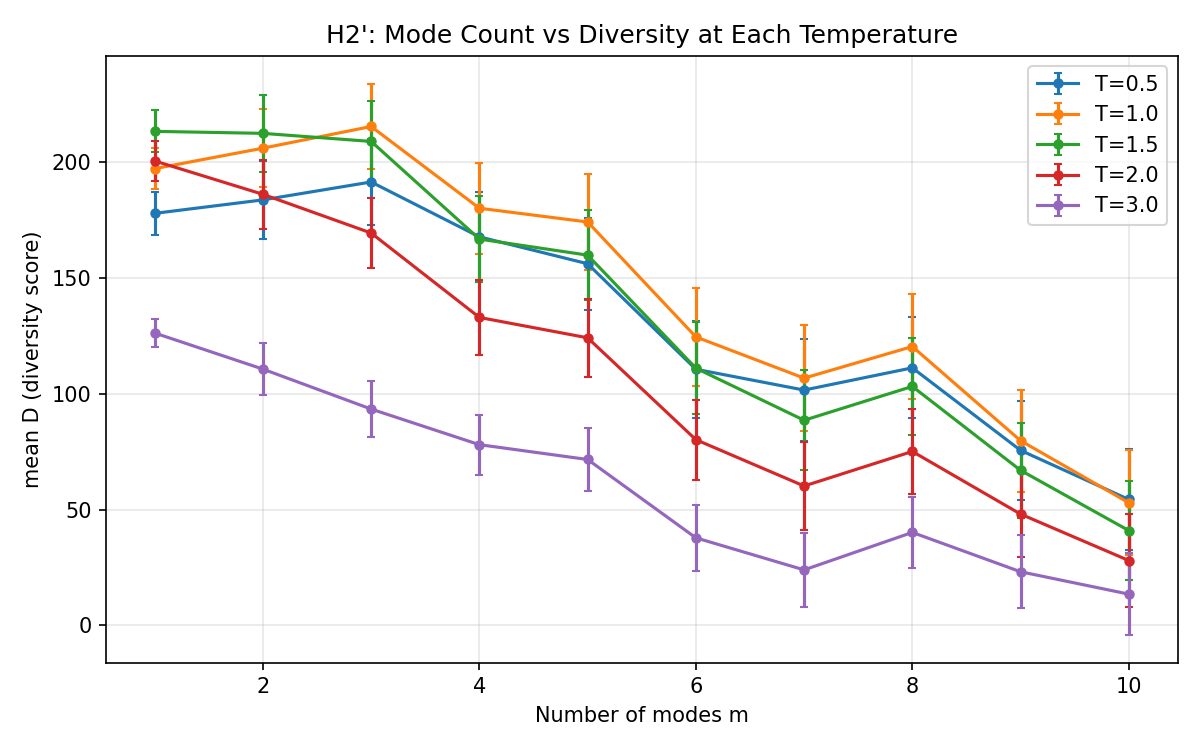
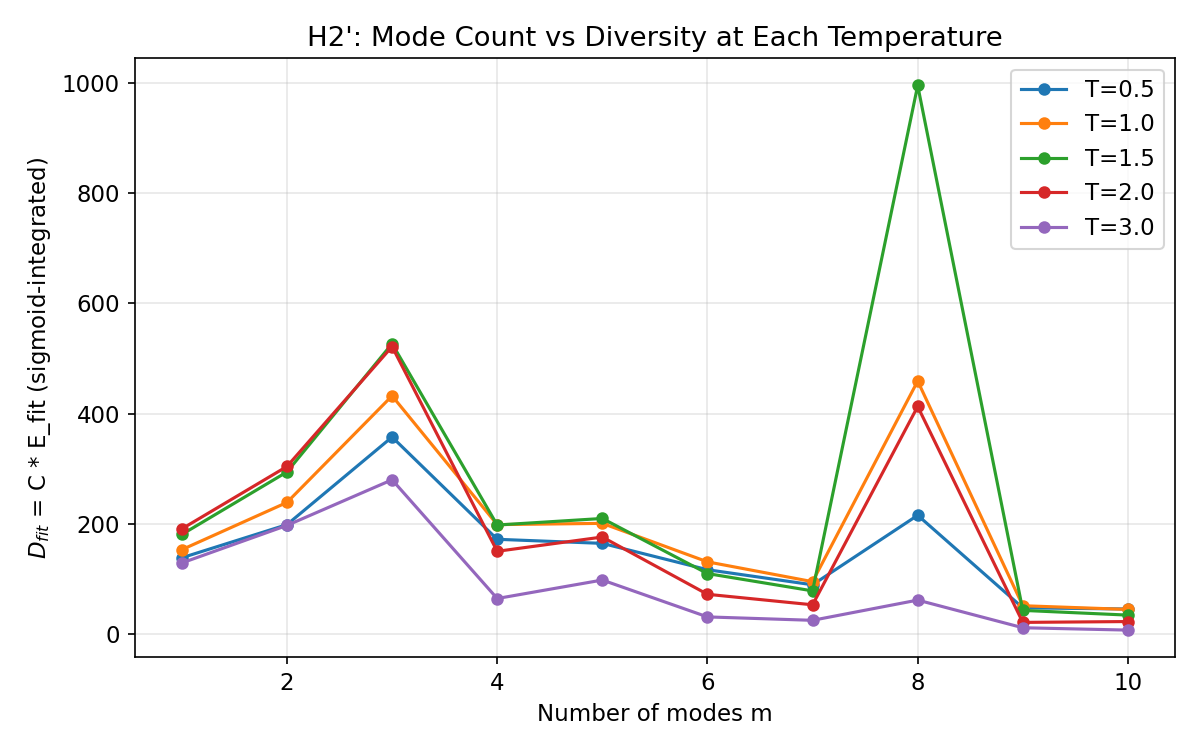
Add permutation a_k curve comparison plot and fix D metric to use sigmoid fit
- New: plot_permutation_curves.py shows per-permutation a_k curves at T=1.0
  vs T=2.0 side-by-side. Visibly tighter bundle at T=2.0.
- analyze_mode_count_temperature.py: H2 now uses sigmoid-fitted D_fit
  (C * E_fit via fit_mean_curves) instead of truncated D. Reveals that
  sigmoid fits are unstable at some mode counts (k0 hits bounds), but
  the overall trend and hypothesis test results are unchanged.

diff --git a/scripts/analyze_mode_count_temperature.py b/scripts/analyze_mode_count_temperature.py
@@ -26,6 +26,7 @@ Usage:
 
 import argparse
 import json
+import sys
 from collections import defaultdict
 from pathlib import Path
 from typing import Any
@@ -33,6 +34,10 @@ from typing import Any
 import matplotlib.pyplot as plt
 import numpy as np
 from scipy import stats
+
+# Import sigmoid fitting from the existing fit_ak_curves script
+sys.path.insert(0, str(Path(__file__).resolve().parent))
+from fit_ak_curves import fit_mean_curves
 
 DEFAULT_INPUT_DIR = (
     Path(__file__).resolve().parent.parent / "results" / "mode_count_temperature"
@@ -53,8 +58,44 @@ def load_all_results(input_dir: Path) -> dict[float, dict[str, Any]]:
     return results
 
 
-def group_D_by_m(data: dict[str, Any]) -> dict[int, list[float]]:
-    """Extract D values grouped by mode count m."""
+def compute_D_fit_per_m(data: dict[str, Any], n_bootstrap: int = 200) -> dict[int, float]:
+    """Compute D_fit = C_mean * E_fit per mode count m using fit_mean_curves.
+
+    Delegates to fit_mean_curves from fit_ak_curves.py, which averages a_k
+    curves across draws per m, fits one sigmoid, and integrates 1..inf.
+    """
+    # fit_mean_curves expects each run to have "n_responses"; patch if missing
+    n_responses = data.get("n_responses")
+    if n_responses is not None:
+        for run in data["runs"]:
+            if "n_responses" not in run:
+                run["n_responses"] = n_responses
+
+    fit_results = fit_mean_curves(data, n_bootstrap=n_bootstrap)
+
+    # Also compute mean C per m
+    grouped: dict[int, list[float]] = defaultdict(list)
+    for run in data["runs"]:
+        grouped[int(run["m"])].append(float(run["coherence_C"]))
+
+    d_fit_by_m: dict[int, float] = {}
+    for fit in fit_results:
+        m = fit["m"]
+        if not fit.get("fit_success"):
+            print(f"    WARNING: sigmoid fit failed for m={m}")
+            continue
+        mean_C = float(np.mean(grouped[m]))
+        d_fit_by_m[m] = mean_C * fit["E_fit"]
+
+    return d_fit_by_m
+
+
+def group_D_raw_by_m(data: dict[str, Any]) -> dict[int, list[float]]:
+    """Extract raw per-draw D values grouped by mode count m.
+
+    Uses the truncated E = sum(a_k - a_n) from compute_icl_diversity_metrics.
+    Used for variance/std calculations where we need per-draw distributions.
+    """
     by_m: dict[int, list[float]] = defaultdict(list)
     for run in data["runs"]:
         by_m[int(run["m"])].append(float(run["diversity_score_D"]))
@@ -71,14 +112,14 @@ def h1_variance_reduction(
         print("  WARNING: T=1.0 not in results, skipping H1'")
         return
 
-    ref_by_m = group_D_by_m(all_results[1.0])
+    ref_by_m = group_D_raw_by_m(all_results[1.0])
     mode_counts = sorted(ref_by_m.keys())
     ref_stds = [float(np.std(ref_by_m[m])) for m in mode_counts]
 
     # Plot: std(D) vs m, one line per temperature
     fig, ax = plt.subplots(figsize=(8, 5))
     for temp in temperatures:
-        by_m = group_D_by_m(all_results[temp])
+        by_m = group_D_raw_by_m(all_results[temp])
         stds = [float(np.std(by_m[m])) for m in mode_counts]
         ax.plot(mode_counts, stds, "o-", label=f"T={temp}", markersize=4)
 
@@ -99,7 +140,7 @@ def h1_variance_reduction(
 
     h1_results: list[dict[str, Any]] = []
     for temp in sorted(t for t in temperatures if t > 1.0):
-        by_m = group_D_by_m(all_results[temp])
+        by_m = group_D_raw_by_m(all_results[temp])
         test_stds = [float(np.std(by_m[m])) for m in mode_counts]
         diffs = [r - t for r, t in zip(ref_stds, test_stds)]
         if all(d == 0.0 for d in diffs):
@@ -130,27 +171,35 @@ def h2_ordering_preservation(
     all_results: dict[float, dict[str, Any]],
     output_dir: Path,
 ) -> None:
-    """H2': Mode count ordering preserved across temperatures."""
+    """H2': Mode count ordering preserved across temperatures.
+
+    Uses sigmoid-fitted D_fit (via fit_mean_curves) for mean values,
+    so the ordering reflects the properly integrated E rather than the
+    truncated finite-sample E = sum(a_k - a_n).
+    """
     temperatures = sorted(all_results.keys())
     if 1.0 not in all_results:
         print("  WARNING: T=1.0 not in results, skipping H2'")
         return
 
-    ref_by_m = group_D_by_m(all_results[1.0])
-    mode_counts = sorted(ref_by_m.keys())
-    ref_means = [float(np.mean(ref_by_m[m])) for m in mode_counts]
+    print("  Fitting sigmoids for D_fit per (temperature, m)...")
+    d_fit_all: dict[float, dict[int, float]] = {}
+    for temp in temperatures:
+        d_fit_all[temp] = compute_D_fit_per_m(all_results[temp])
 
-    # Plot: mean D vs m at each temperature
+    ref_d_fit = d_fit_all[1.0]
+    mode_counts = sorted(ref_d_fit.keys())
+    ref_means = [ref_d_fit[m] for m in mode_counts]
+
+    # Plot: D_fit vs m at each temperature
     fig, ax = plt.subplots(figsize=(8, 5))
     for temp in temperatures:
-        by_m = group_D_by_m(all_results[temp])
-        means = [float(np.mean(by_m[m])) for m in mode_counts]
-        sems = [float(np.std(by_m[m]) / np.sqrt(len(by_m[m]))) for m in mode_counts]
-        ax.errorbar(mode_counts, means, yerr=sems, fmt="o-", label=f"T={temp}",
-                     markersize=4, capsize=2)
+        d_fit = d_fit_all[temp]
+        means = [d_fit.get(m, 0.0) for m in mode_counts]
+        ax.plot(mode_counts, means, "o-", label=f"T={temp}", markersize=5)
 
     ax.set_xlabel("Number of modes m")
-    ax.set_ylabel("mean D (diversity score)")
+    ax.set_ylabel("$D_{fit}$ = C * E_fit (sigmoid-integrated)")
     ax.set_title("H2': Mode Count vs Diversity at Each Temperature")
     ax.legend()
     ax.grid(True, alpha=0.3)
@@ -160,14 +209,14 @@ def h2_ordering_preservation(
     print("  Saved h2_mean_D_vs_m.png")
 
     # Formal test: Spearman rho at each T vs T=1.0
-    print("\n  H2' Spearman rho of mean_D(m) at T vs T=1.0 (10 mode counts)")
+    print("\n  H2' Spearman rho of D_fit(m) at T vs T=1.0 (10 mode counts)")
     print(f"  {'T':>5} | {'rho':>6} | {'p-value':>8} | reject?")
     print(f"  {'---':>5}-+-{'---':>6}-+-{'---':>8}-+--------")
 
     h2_results: list[dict[str, Any]] = []
     for temp in temperatures:
-        by_m = group_D_by_m(all_results[temp])
-        means = [float(np.mean(by_m[m])) for m in mode_counts]
+        d_fit = d_fit_all[temp]
+        means = [d_fit.get(m, 0.0) for m in mode_counts]
         rho_result = stats.spearmanr(ref_means, means)
         rho = float(rho_result.statistic)
         p_val = float(rho_result.pvalue)
@@ -197,7 +246,7 @@ def h3_discriminability(
 
     h3_results: list[dict[str, Any]] = []
     for temp in temperatures:
-        by_m = group_D_by_m(all_results[temp])
+        by_m = group_D_raw_by_m(all_results[temp])
         mode_counts = sorted(by_m.keys())
 
         cohens_ds: list[float] = []
@@ -253,7 +302,7 @@ def h4_sample_efficiency(
         print("  WARNING: T=1.0 not in results, skipping H4'")
         return
 
-    ref_by_m = group_D_by_m(all_results[1.0])
+    ref_by_m = group_D_raw_by_m(all_results[1.0])
     mode_counts = sorted(ref_by_m.keys())
     ref_means = np.array([float(np.mean(ref_by_m[m])) for m in mode_counts])
 
@@ -267,7 +316,7 @@ def h4_sample_efficiency(
     fig, ax = plt.subplots(figsize=(8, 5))
 
     for temp in test_temperatures:
-        by_m = group_D_by_m(all_results[temp])
+        by_m = group_D_raw_by_m(all_results[temp])
         rho_distributions[temp] = {}
 
         mean_rhos: list[float] = []
@@ -395,7 +444,7 @@ def main() -> None:
     # Count runs
     for temp, data in sorted(all_results.items()):
         n_runs = len(data["runs"])
-        by_m = group_D_by_m(data)
+        by_m = group_D_raw_by_m(data)
         n_m = len(by_m)
         draws_per_m = n_runs // n_m if n_m > 0 else 0
         print(f"  T={temp}: {n_runs} runs ({n_m} mode counts x {draws_per_m} draws)")

diff --git a/scripts/plot_permutation_curves.py b/scripts/plot_permutation_curves.py
@@ -1,0 +1,77 @@
+"""Plot individual permutation a_k curves at T=1.0 vs T=2.0 to visualize variance reduction.
+
+Side-by-side panels showing all ~100 permutation curves (thin, transparent)
+with the mean overlaid (thick). Same y-axis scale so the visual spread is
+directly comparable.
+
+Usage:
+    uv run python scripts/plot_permutation_curves.py
+"""
+
+import json
+from pathlib import Path
+
+import matplotlib.pyplot as plt
+import numpy as np
+
+RESULTS_DIR = Path(__file__).resolve().parent.parent / "results" / "temperature_experiments"
+FIGURES_DIR = Path(__file__).resolve().parent.parent / "figures" / "temperature"
+
+
+def main() -> None:
+    FIGURES_DIR.mkdir(parents=True, exist_ok=True)
+
+    temps = [1.0, 2.0]
+    data = {}
+    for t in temps:
+        path = RESULTS_DIR / f"T_{t}.json"
+        with open(path) as f:
+            data[t] = json.load(f)
+
+    # Extract per-permutation curves for multi_mode, first prompt
+    curves_by_t: dict[float, np.ndarray] = {}
+    for t in temps:
+        entry = data[t]["scenarios"]["multi_mode"][0]
+        per_perm = entry["per_permutation_a_k_curves"]
+        if per_perm is None:
+            raise ValueError(f"No per_permutation_a_k_curves at T={t}")
+        curves_by_t[t] = np.array(per_perm)
+
+    # Shared y-axis limits
+    all_vals = np.concatenate([c.ravel() for c in curves_by_t.values()])
+    y_min = float(np.min(all_vals)) * 0.9
+    y_max = float(np.max(all_vals)) * 1.05
+
+    fig, axes = plt.subplots(1, 2, figsize=(14, 5), sharey=True)
+
+    for ax, t in zip(axes, temps):
+        curves = curves_by_t[t]
+        n_perms, n_resp = curves.shape
+        k = np.arange(1, n_resp + 1)
+
+        # Individual permutation curves
+        for i in range(n_perms):
+            ax.plot(k, curves[i], color="steelblue", alpha=0.12, linewidth=0.8)
+
+        # Mean curve
+        mean_curve = np.mean(curves, axis=0)
+        ax.plot(k, mean_curve, color="darkred", linewidth=2.5, label="mean")
+
+        ax.set_xlabel("Response index k")
+        ax.set_title(f"T = {t}  ({n_perms} permutations)", fontsize=13, fontweight="bold")
+        ax.set_ylim(y_min, y_max)
+        ax.grid(True, alpha=0.3)
+        ax.legend(loc="upper right")
+
+    axes[0].set_ylabel("$a_k$ (total bits)")
+    fig.suptitle("multi_mode: Per-Permutation a_k Curves", fontsize=14, fontweight="bold")
+    fig.tight_layout()
+
+    out_path = FIGURES_DIR / "permutation_curves_comparison.png"
+    fig.savefig(out_path, dpi=150)
+    plt.close(fig)
+    print(f"Saved {out_path}")
+
+
+if __name__ == "__main__":
+    main()
